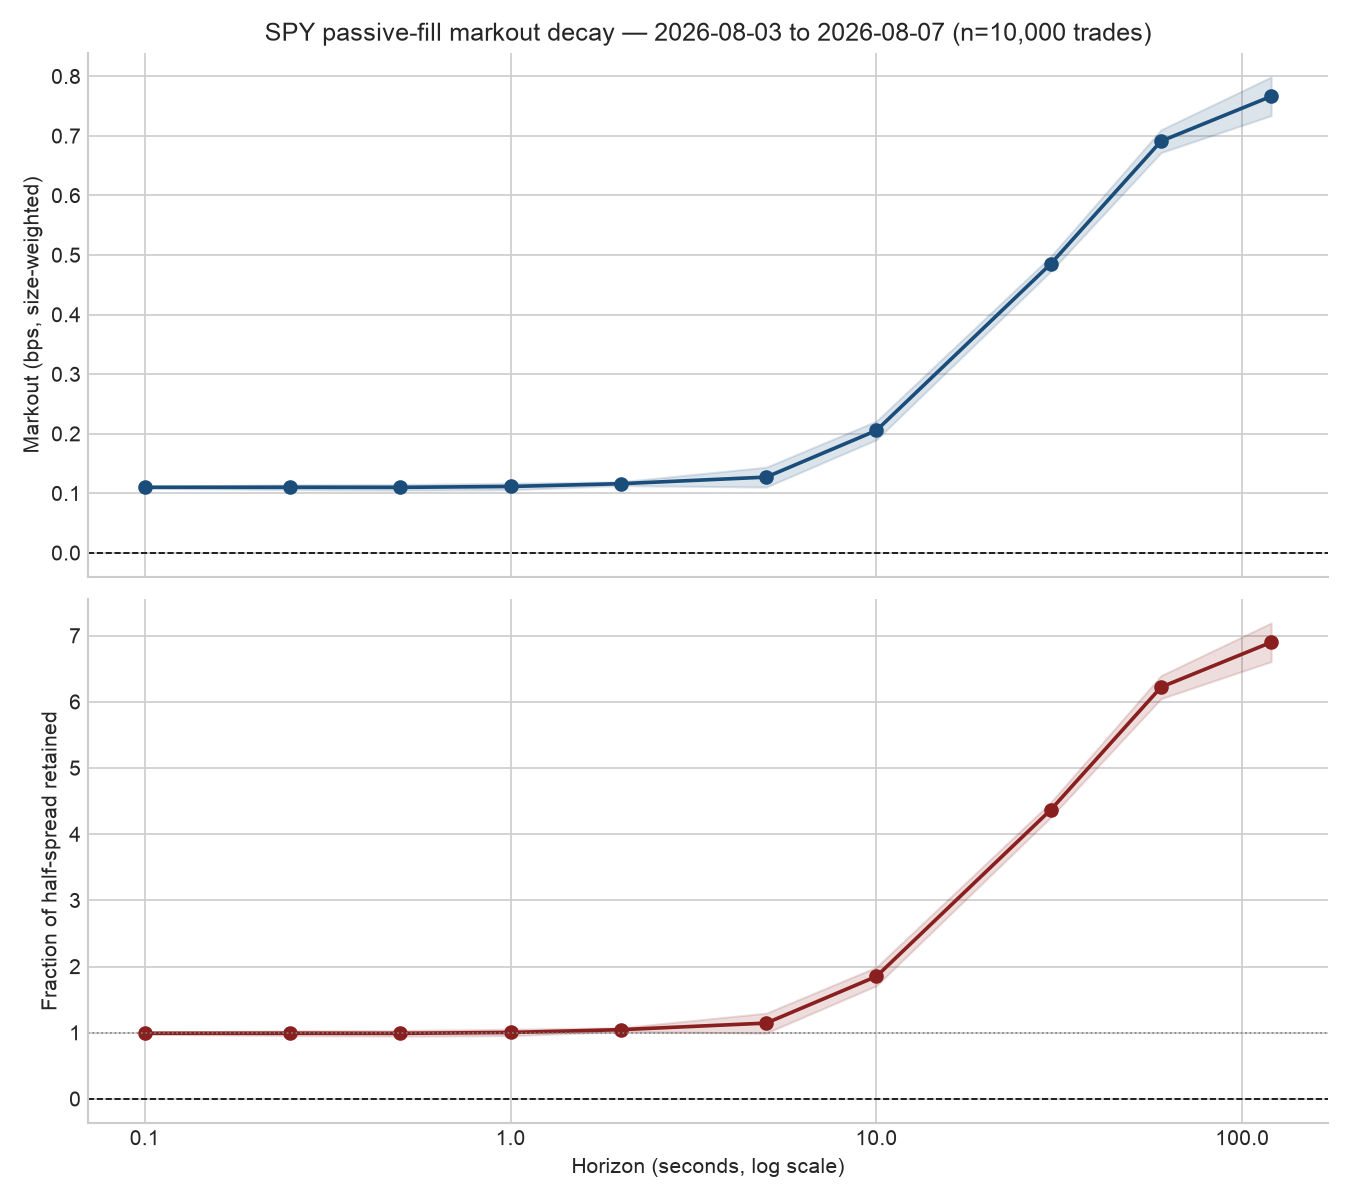
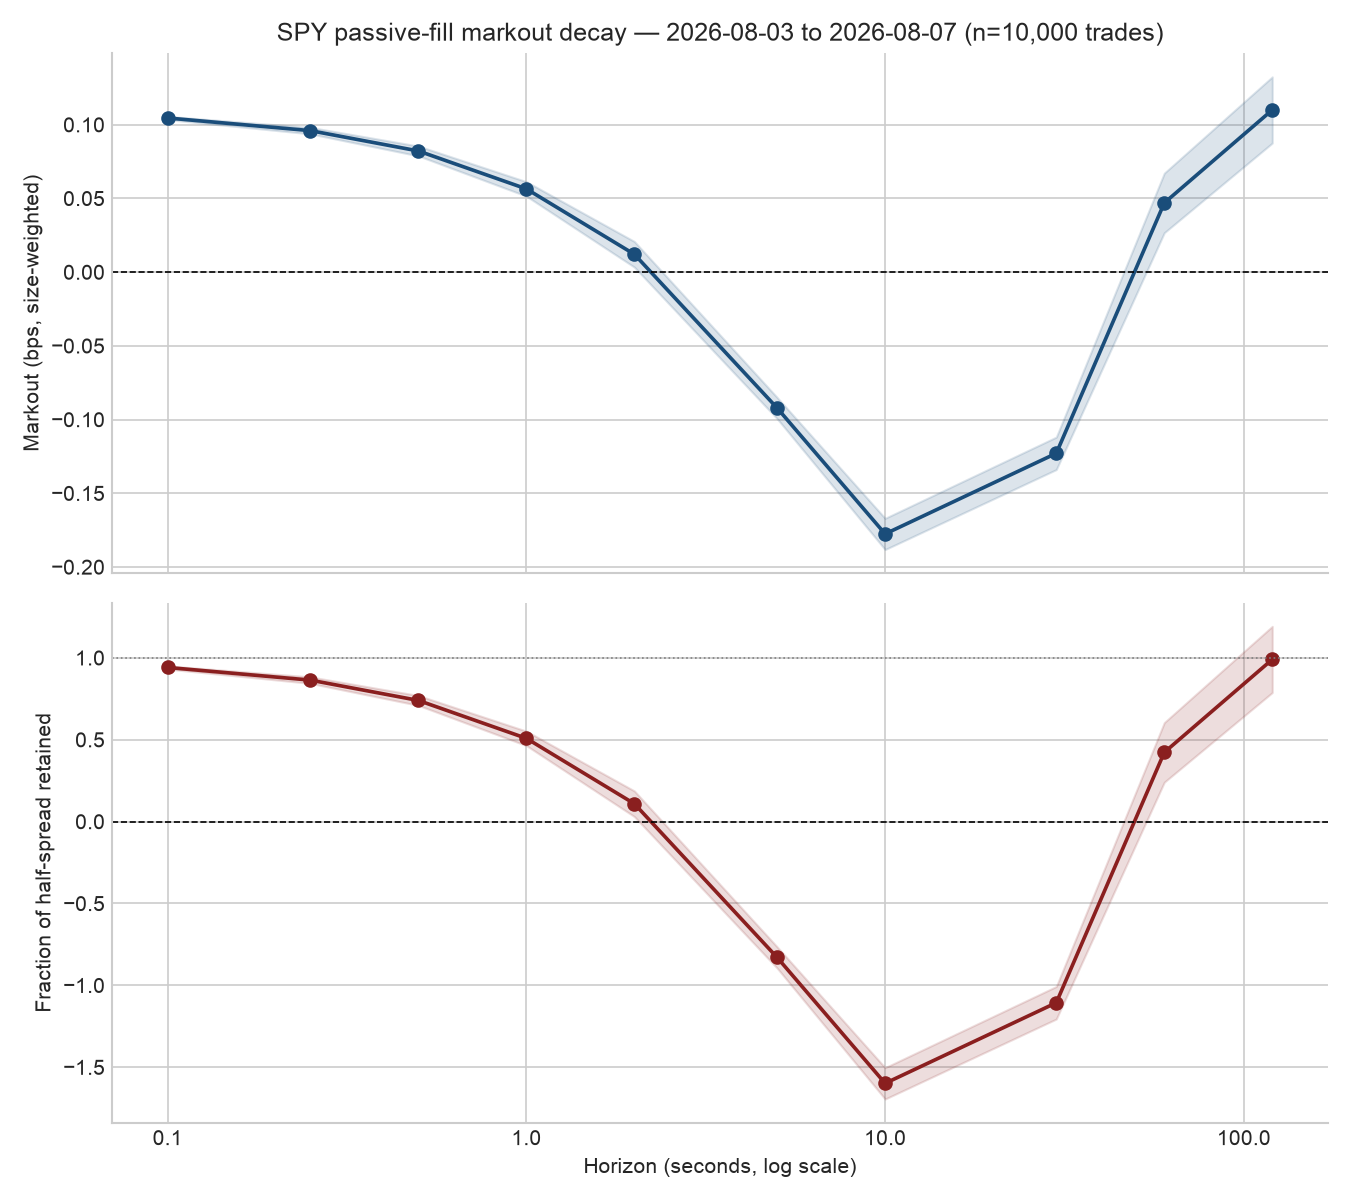
Fix synth.py: trade's own impact must not price its own fill
A trade's contemporaneous price was set from a mid that already included
that same trade's own impact kick, so the kick's later decay looked like
the passive maker gaining from mean reversion (markout grew to ~7x the
half-spread by h=120s) instead of losing to adverse selection. Reorder so
each trade is priced against impact carried over from earlier trades only,
then injects its own impact for subsequent trades to see.

Regenerated the SYNTH dry-run outputs: the curve now dips from ~1.0x
half-spread down to ~-1.6x around h=10s (genuine adverse-selection decay)
before partially recovering toward ~1.0x by h=120s, consistent with a
purely-temporary (non-permanent) impact model. h0_equals_half_spread still
passes exactly; monotone_decay now passes too (7/10 non-increasing, was
2/10).

diff --git a/markout/src/synth.py b/markout/src/synth.py
@@ -48,9 +48,16 @@ def generate_synthetic_raw_day(
             decay = np.exp(-dt / DECAY_TAU_SECONDS)
             impacts[i] = impacts[i - 1] * decay
             running_mid += rng.normal(0, 0.005)  # small idiosyncratic noise
-        impacts[i] += aggressor_sides[i] * IMPACT
+        # price this trade against impact carried over from EARLIER trades
+        # only -- do NOT let a trade's own kick affect its own fill price,
+        # or its own impact "reverting" after the fact looks like the
+        # passive counterparty gaining from mean reversion instead of
+        # losing to adverse selection.
         running_mid_i = running_mid + impacts[i]
         mid_path[i] = running_mid_i
+        # inject this trade's own impact -- affects subsequent trades'
+        # pricing, not its own.
+        impacts[i] += aggressor_sides[i] * IMPACT
 
     bid = np.round(mid_path - TICK / 2, 2)
     ask = bid + TICK
